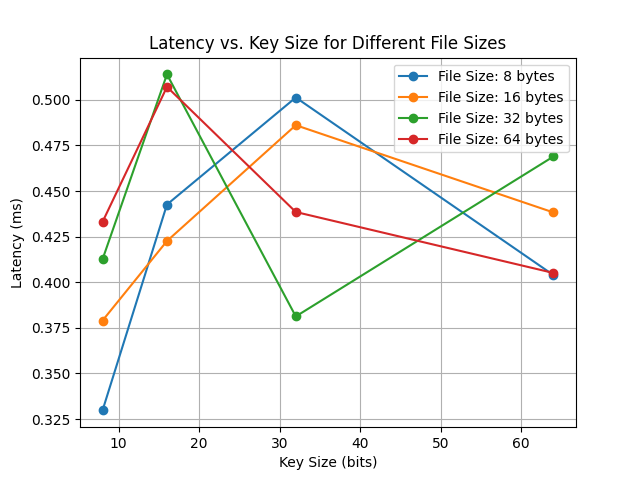
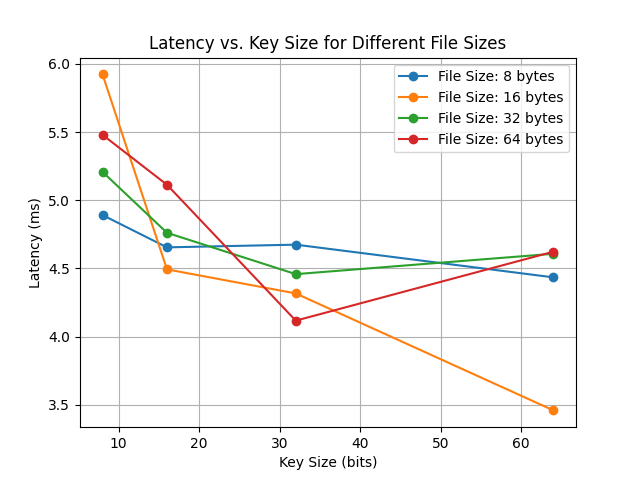
Request/sec add plots + Different debit

diff --git a/project/python_scripts/scriptCsv.py b/project/python_scripts/scriptCsv.py
@@ -3,102 +3,167 @@ import matplotlib.pyplot as plt
 import numpy as np
 import os
 
-
 datas = pd.read_csv("./data/measurements.csv")
 datas['LATENCY'] = datas['LATENCY'] * 1000
+datas['REQ'] = datas['REQ'] * 1000
+# Regrouper les données par 'debits'
+grouped = datas.groupby('debits')
 
-mean_latency = datas.groupby('key_size')['LATENCY'].mean() 
-error = datas.groupby('key_size')['LATENCY'].std() 
+# Latency/keysize
 plt.figure(figsize=(10, 6))
 
-mean_latency.plot(kind='line', color='blue')
-plt.scatter(mean_latency.index, mean_latency.values, color='blue', label='Points', s=50)
-plt.errorbar(mean_latency.index, mean_latency.values, yerr=error.values, fmt='o', color='blue', elinewidth=2, capsize=5, label='Barres d\'erreur')
+for debits, group_data in grouped:
+    mean_latency = group_data.groupby('key_size')['LATENCY'].mean()
+    error = group_data.groupby('key_size')['LATENCY'].std()
+
+    mean_latency.plot(kind='line', label=f'Debits: {debits}')
+    plt.scatter(mean_latency.index, mean_latency.values)
+    plt.errorbar(mean_latency.index, mean_latency.values, yerr=error.values, fmt='o', elinewidth=2, capsize=5)
+
 plt.xlabel('Key size (bytes)')
 plt.ylabel('LATENCY (ms)')
-plt.title('LATENCY in line with Key size')  
+plt.title('LATENCY in line with Key size for Different Debits')
 plt.grid(True)
-plt.savefig("./plots/keyplot.PNG")
+plt.legend()
+plt.savefig("./plots/keyplot_all_debits_latency.PNG")
 plt.close()
 
-
-
-
-mean_latency = datas.groupby('file_size')['LATENCY'].mean() 
-error = datas.groupby('file_size')['LATENCY'].std() 
+# Request/keysize
 plt.figure(figsize=(10, 6))
 
-mean_latency.plot(kind='line', color='blue')
-plt.scatter(mean_latency.index, mean_latency.values, color='blue', label='Points', s=50)
-plt.errorbar(mean_latency.index, mean_latency.values, yerr=error.values, fmt='o', color='blue', elinewidth=2, capsize=5, label='Barres d\'erreur')
+for debits, group_data in grouped:
+    mean_latency = group_data.groupby('key_size')['REQ'].mean()
+    error = group_data.groupby('key_size')['REQ'].std()
+
+    mean_latency.plot(kind='line', label=f'Debits: {debits}')
+    plt.scatter(mean_latency.index, mean_latency.values)
+    plt.errorbar(mean_latency.index, mean_latency.values, yerr=error.values, fmt='o', elinewidth=2, capsize=5)
+
+plt.xlabel('Key size (bytes)')
+plt.ylabel('REQUEST (ms)')
+plt.title('REQUEST in line with Key size for Different Debits')
+plt.grid(True)
+plt.legend()
+plt.savefig("./plots/keyplot_all_debits_requests.PNG")
+plt.close()
+
+# Latency/FileSize
+plt.figure(figsize=(10, 6))
+
+for debits, group_data in grouped:
+    mean_latency = group_data.groupby('file_size')['LATENCY'].mean()
+    error = group_data.groupby('file_size')['LATENCY'].std()
+
+    mean_latency.plot(kind='line', label=f'Debits: {debits}')
+    plt.scatter(mean_latency.index, mean_latency.values)
+    plt.errorbar(mean_latency.index, mean_latency.values, yerr=error.values, fmt='o', elinewidth=2, capsize=5)
+
 plt.xlabel('File size (bytes)')
 plt.ylabel('LATENCY (ms)')
-plt.title('LATENCY in line with File size')  
+plt.title('LATENCY in line with Key size for Different Debits')
 plt.grid(True)
-plt.savefig("./plots/fileplot.PNG")
+plt.legend()
+plt.savefig("./plots/fileplot_all_debits_latency.PNG")
 plt.close()
 
-
-
-
-mean_latency = datas.groupby('threads')['LATENCY'].mean() 
-error = datas.groupby('threads')['LATENCY'].std() 
+# Request/FileSize
 plt.figure(figsize=(10, 6))
 
-mean_latency.plot(kind='line', color='blue')
-plt.scatter(mean_latency.index, mean_latency.values, color='blue', label='Points', s=50)
-plt.errorbar(mean_latency.index, mean_latency.values, yerr=error.values, fmt='o', color='blue', elinewidth=2, capsize=5, label='Barres d\'erreur')
-plt.xlabel('threads')
-plt.ylabel('LATENCY (ms)')
-plt.title('LATENCY in line with Threads')  
+for debits, group_data in grouped:
+    mean_latency = group_data.groupby('file_size')['REQ'].mean()
+    error = group_data.groupby('file_size')['REQ'].std()
+
+    mean_latency.plot(kind='line', label=f'Debits: {debits}')
+    plt.scatter(mean_latency.index, mean_latency.values)
+    plt.errorbar(mean_latency.index, mean_latency.values, yerr=error.values, fmt='o', elinewidth=2, capsize=5)
+
+plt.xlabel('File size (bytes)')
+plt.ylabel('Req (ms)')
+plt.title('Req in line with Key size for Different Debits')
 plt.grid(True)
-plt.savefig("./plots/threadsPlot.PNG")
-plt.close()
-
-
-
-plt.figure(figsize=(18, 6))
-
-plt.subplot(131)  # Premier sous-graphique
-plt.imshow(plt.imread("./plots/keyplot.PNG"))
-plt.axis('off')
-plt.title('Compare by key Size')
-
-plt.subplot(132)  # Deuxième sous-graphique
-plt.imshow(plt.imread("./plots/fileplot.PNG"))
-plt.axis('off')
-plt.title('Compare by File Size')
-
-plt.subplot(133) 
-plt.imshow(plt.imread("./plots/threadsPlot.PNG"))
-plt.axis('off')
-plt.title('Compare by Threads')
-
-plt.tight_layout()
-
-plt.suptitle('LATENCY comparisons', fontsize=16)
-plt.savefig("./plots/compare3.PNG")
-plt.close()
-
-
-
-
-
-grouped = datas.groupby(['file_size', 'key_size']).LATENCY.mean().reset_index() 
-
-for key in grouped['key_size'].unique():
-    subset = grouped[grouped['key_size'] == key]
-    plt.plot(subset['file_size'], subset['LATENCY'], label=f"Key Size: {key}", marker='o')
-
 plt.legend()
-plt.xlabel("File Size (bytes)")
-plt.ylabel("Latency (ms)")
-plt.title("Average Latency vs. File Size for Different Key Sizes")
-plt.grid(True)
-plt.savefig("./plots/latency_vs_filesize.PNG")
+plt.savefig("./plots/fileplot_all_debits_request.PNG")
 plt.close()
 
+# Latency/Threads
+plt.figure(figsize=(10, 6))
 
+for debits, group_data in grouped:
+    mean_latency = group_data.groupby('threads')['LATENCY'].mean()
+    error = group_data.groupby('threads')['LATENCY'].std()
+
+    mean_latency.plot(kind='line', label=f'Debits: {debits}')
+    plt.scatter(mean_latency.index, mean_latency.values)
+    plt.errorbar(mean_latency.index, mean_latency.values, yerr=error.values, fmt='o', elinewidth=2, capsize=5)
+
+plt.xlabel('File size (bytes)')
+plt.ylabel('LATENCY (ms)')
+plt.title('LATENCY in line with Key size for Different Debits')
+plt.grid(True)
+plt.legend()
+plt.savefig("./plots/threadsplot_all_debits_latency.PNG")
+plt.close()
+
+# Request/Threads
+plt.figure(figsize=(10, 6))
+
+for debits, group_data in grouped:
+    mean_latency = group_data.groupby('threads')['REQ'].mean()
+    error = group_data.groupby('threads')['REQ'].std()
+
+    mean_latency.plot(kind='line', label=f'Debits: {debits}')
+    plt.scatter(mean_latency.index, mean_latency.values)
+    plt.errorbar(mean_latency.index, mean_latency.values, yerr=error.values, fmt='o', elinewidth=2, capsize=5)
+
+plt.xlabel('File size (bytes)')
+plt.ylabel('REQ (ms)')
+plt.title('REQ in line with Key size for Different Debits')
+plt.grid(True)
+plt.legend()
+plt.savefig("./plots/threadsplot_all_debits_request.PNG")
+plt.close()
+
+#file vs key / Latency
+
+grouped_debits = datas.groupby('debits')
+
+for debits, group_data in grouped_debits:
+    plt.figure(figsize=(10, 6))
+
+    # Regrouper les données par 'file_size' et 'key_size' et calculer la moyenne de la latence
+    grouped = group_data.groupby(['file_size', 'key_size'])['LATENCY'].mean().reset_index()
+
+    for key_size in grouped['key_size'].unique():
+        subset = grouped[grouped['key_size'] == key_size]
+        plt.plot(subset['file_size'], subset['LATENCY'], label=f"Key Size: {key_size}", marker='o')
+
+    plt.legend()
+    plt.xlabel("File Size (bytes)")
+    plt.ylabel("Average Latency (ms)")
+    plt.title(f"Average Latency vs. File Size for Different Key Sizes (Debits: {debits})")
+    plt.grid(True)
+    plt.savefig(f"./plots/latency_vs_filesize_debits_{debits}.PNG")
+    plt.close()
+
+#file vs key / REQ
+
+for debits, group_data in grouped_debits:
+    plt.figure(figsize=(10, 6))
+
+    # Regrouper les données par 'file_size' et 'key_size' et calculer la moyenne de la latence
+    grouped = group_data.groupby(['file_size', 'key_size'])['REQ'].mean().reset_index()
+
+    for key_size in grouped['key_size'].unique():
+        subset = grouped[grouped['key_size'] == key_size]
+        plt.plot(subset['file_size'], subset['REQ'], label=f"Key Size: {key_size}", marker='o')
+
+    plt.legend()
+    plt.xlabel("File Size (bytes)")
+    plt.ylabel("Average REQ (ms)")
+    plt.title(f"Average REQ vs. File Size for Different Key Sizes (Debits: {debits})")
+    plt.grid(True)
+    plt.savefig(f"./plots/req_latency_vs_filesize_debits_{debits}.PNG")
+    plt.close()
 
 
 grouped = datas.groupby(['key_size', 'file_size']).LATENCY.mean().reset_index()
@@ -116,35 +181,70 @@ plt.grid(True)
 plt.savefig("./plots/latency_vs_keysize.PNG")
 plt.close()
 
+for debits, group_data in grouped_debits:
+    plt.figure(figsize=(10, 6))
+    # Grouper par 'key_size' et 'threads' puis calculer la latence moyenne
+    grouped = group_data.groupby(['key_size', 'threads'])['LATENCY'].mean().reset_index()
 
+    for thread in grouped['threads'].unique():
+        subset = grouped[grouped['threads'] == thread]
+        plt.plot(subset['key_size'], subset['LATENCY'], label=f"Threads: {thread}", marker='o')
 
+    plt.legend()
+    plt.xlabel("Key Size (bytes)")
+    plt.ylabel("Average Latency (ms)")
+    plt.title(f"Average Latency vs. Key Size for Different Number of Threads (Debits: {debits})")
+    plt.grid(True)
+    plt.savefig(f"./plots/latency_vs_keysize_threads_debits_{debits}.PNG")
+    plt.close()
 
+for debits, group_data in grouped_debits:
+    plt.figure(figsize=(10, 6))
+    # Grouper par 'key_size' et 'threads' puis calculer la latence moyenne
+    grouped = group_data.groupby(['key_size', 'threads'])['REQ'].mean().reset_index()
 
-# Grouper par key_size et threads puis calcule la latence moyenne
-grouped = datas.groupby(['key_size', 'threads']).LATENCY.mean().reset_index()
-for thread in grouped['threads'].unique():
-    subset = grouped[grouped['threads'] == thread]
-    plt.plot(subset['key_size'], subset['LATENCY'], label=f"Threads: {thread}", marker='o')
+    for thread in grouped['threads'].unique():
+        subset = grouped[grouped['threads'] == thread]
+        plt.plot(subset['key_size'], subset['REQ'], label=f"Threads: {thread}", marker='o')
 
-plt.legend()
-plt.xlabel("Key Size (bytes)")
-plt.ylabel("Latency (ms)")
-plt.title("Average Latency vs. Key Size for Different Number of Threads")
-plt.grid(True)
-plt.savefig("./plots/latency_vs_keysize_threads.PNG")
-plt.close()
+    plt.legend()
+    plt.xlabel("Key Size (bytes)")
+    plt.ylabel("Average Request (ms)")
+    plt.title(f"Average Request vs. Key Size for Different Number of Threads (Debits: {debits})")
+    plt.grid(True)
+    plt.savefig(f"./plots/request_vs_keysize_threads_debits_{debits}.PNG")
+    plt.close()
 
+for debits, group_data in grouped_debits:
+    plt.figure(figsize=(10, 6))
+    # Grouper par 'key_size' et 'threads' puis calculer la latence moyenne
+    grouped = group_data.groupby(['file_size', 'threads'])['LATENCY'].mean().reset_index()
 
-# Grouper par file_size et threads puis calcule la latence moyenne
-grouped = datas.groupby(['file_size', 'threads']).LATENCY.mean().reset_index()
-for thread in grouped['threads'].unique():
-    subset = grouped[grouped['threads'] == thread]
-    plt.plot(subset['file_size'], subset['LATENCY'], label=f"Threads: {thread}", marker='o')
+    for thread in grouped['threads'].unique():
+        subset = grouped[grouped['threads'] == thread]
+        plt.plot(subset['file_size'], subset['LATENCY'], label=f"Threads: {thread}", marker='o')
 
-plt.legend()
-plt.xlabel("File Size (bytes)")
-plt.ylabel("Latency (ms)")
-plt.title("Average Latency vs. File Size for Different Number of Threads")
-plt.grid(True)
-plt.savefig("./plots/latency_vs_filesize_threads.PNG")
-plt.close()
+    plt.legend()
+    plt.xlabel("File Size (bytes)")
+    plt.ylabel("Average Latency (ms)")
+    plt.title(f"Average Latency vs. File Size for Different Number of Threads (Debits: {debits})")
+    plt.grid(True)
+    plt.savefig(f"./plots/latency_vs_filesize_threads_debits_{debits}.PNG")
+    plt.close()
+
+for debits, group_data in grouped_debits:
+    plt.figure(figsize=(10, 6))
+    # Grouper par 'key_size' et 'threads' puis calculer la latence moyenne
+    grouped = group_data.groupby(['file_size', 'threads'])['REQ'].mean().reset_index()
+
+    for thread in grouped['threads'].unique():
+        subset = grouped[grouped['threads'] == thread]
+        plt.plot(subset['file_size'], subset['REQ'], label=f"Threads: {thread}", marker='o')
+
+    plt.legend()
+    plt.xlabel("File Size (bytes)")
+    plt.ylabel("Average Request (ms)")
+    plt.title(f"Average Request vs. File Size for Different Number of Threads (Debits: {debits})")
+    plt.grid(True)
+    plt.savefig(f"./plots/request_vs_filesize_threads_debits_{debits}.PNG")
+    plt.close()
